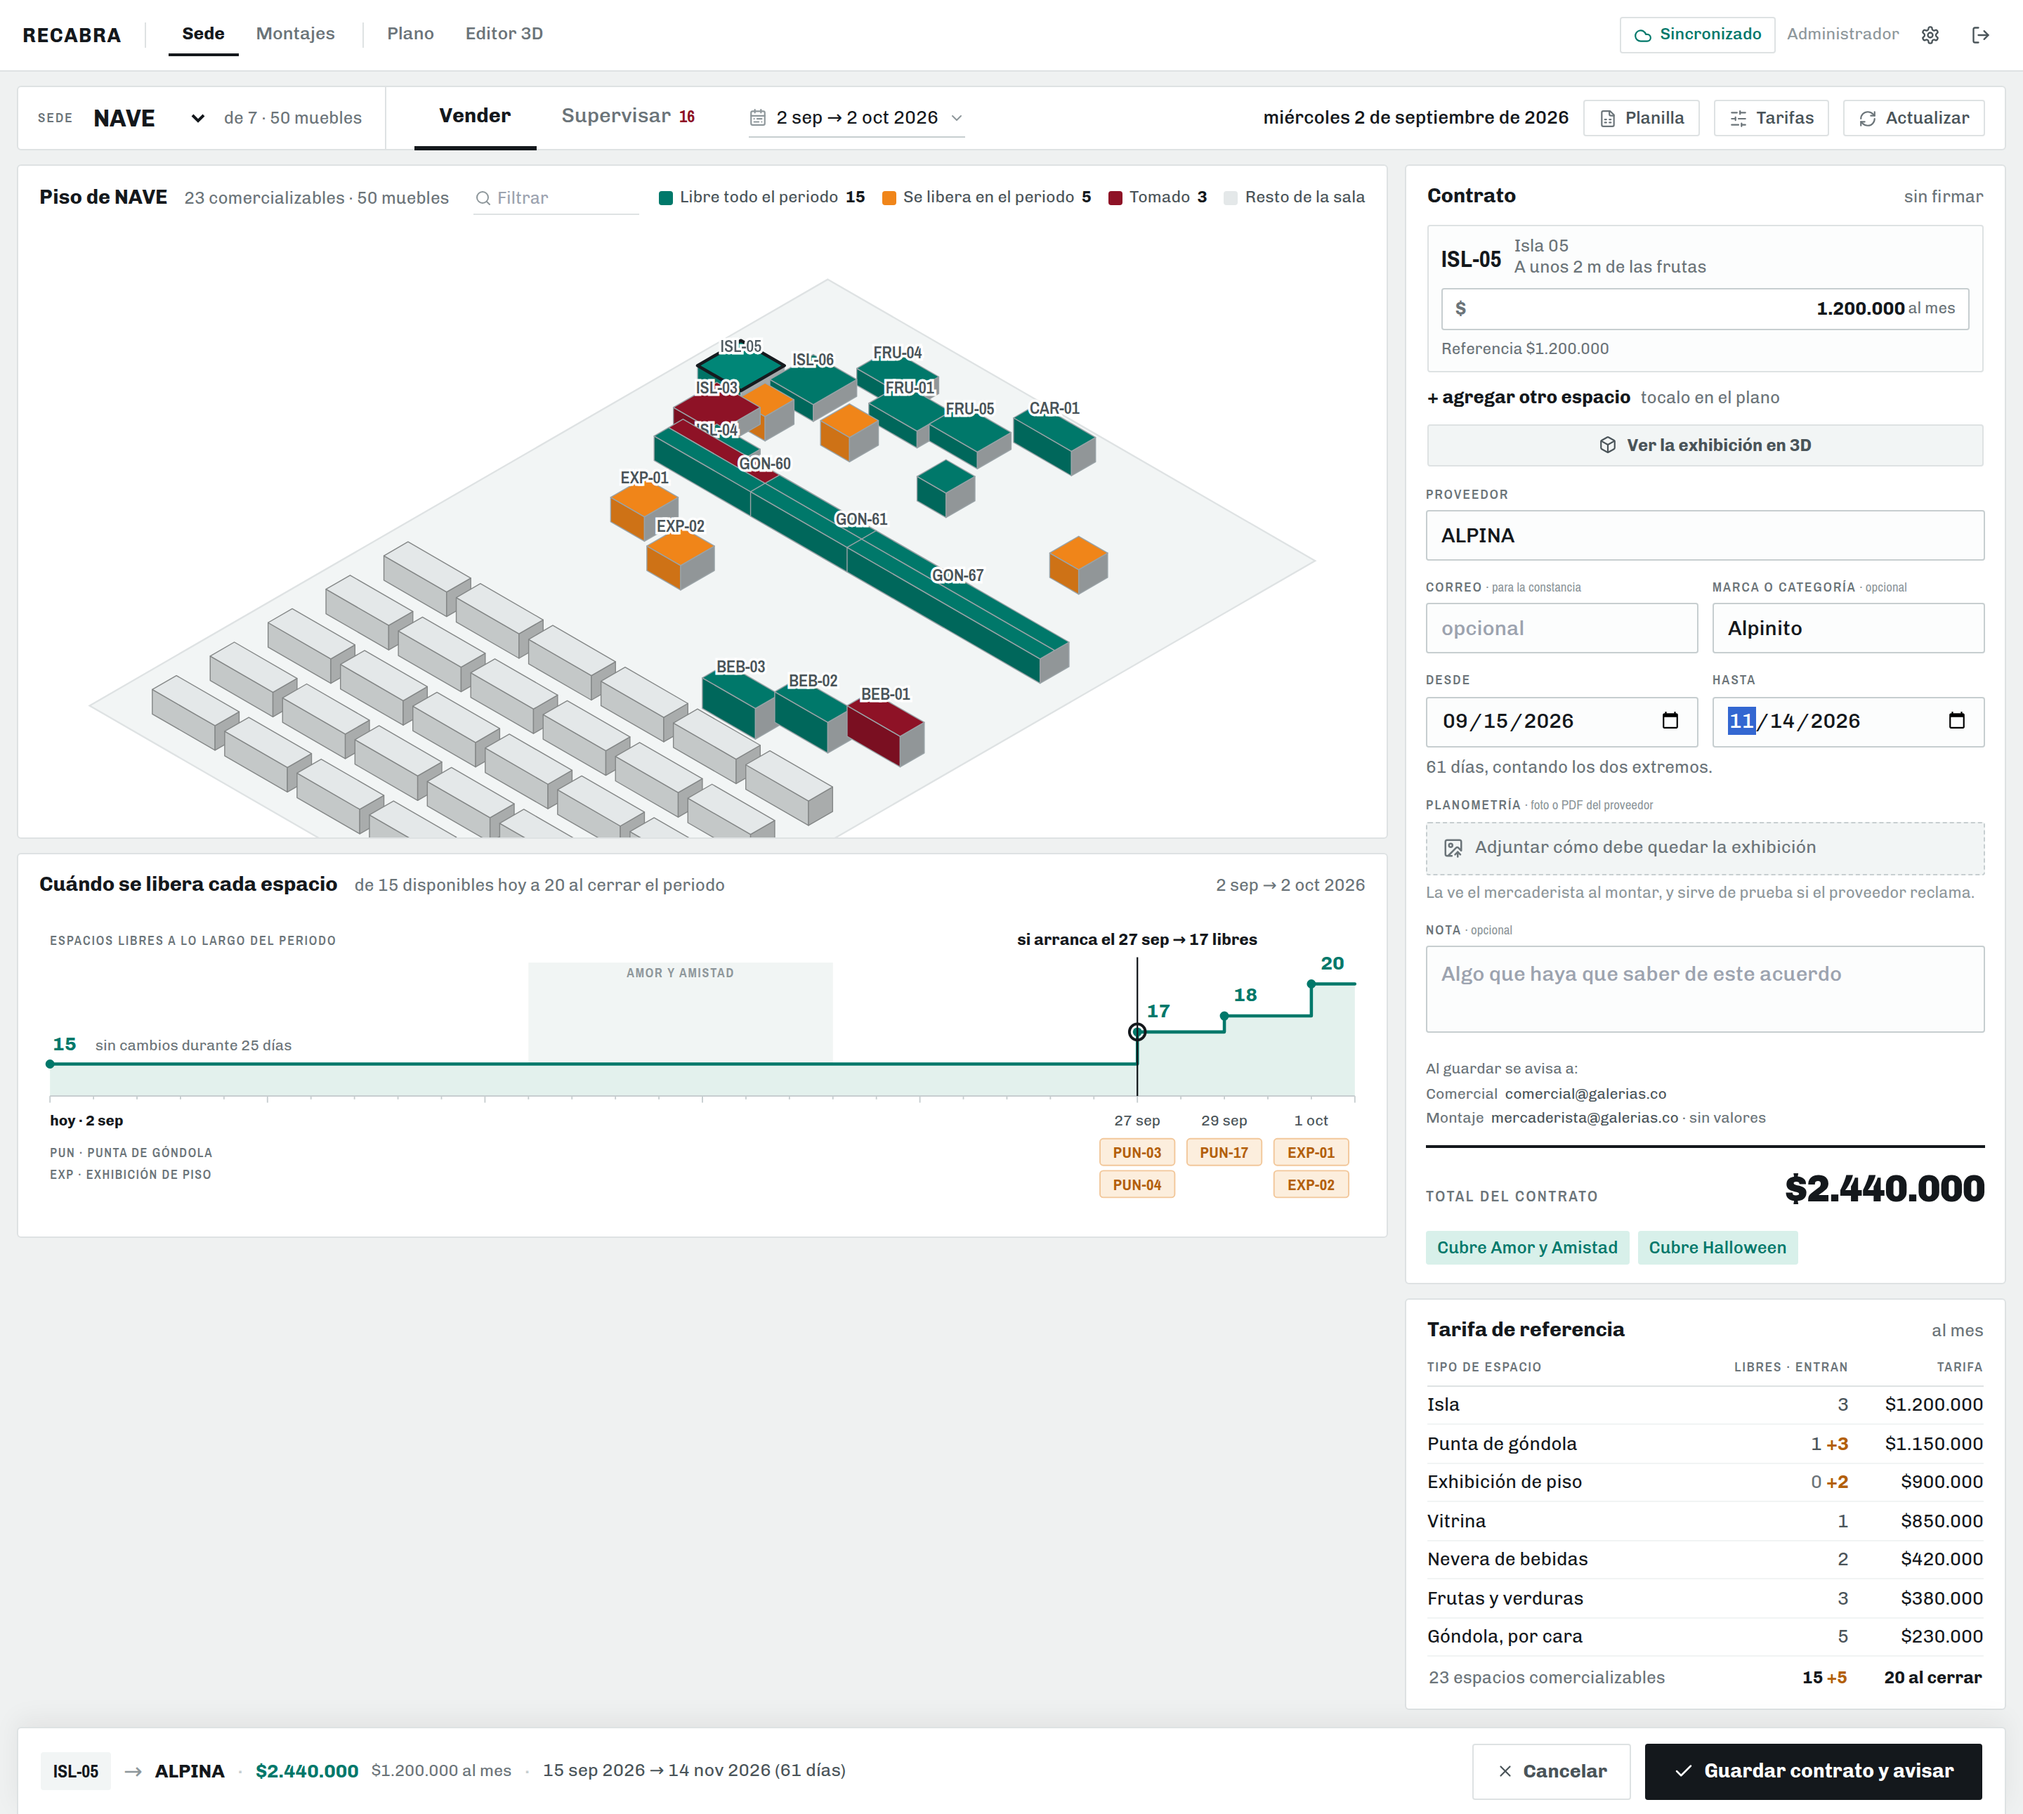
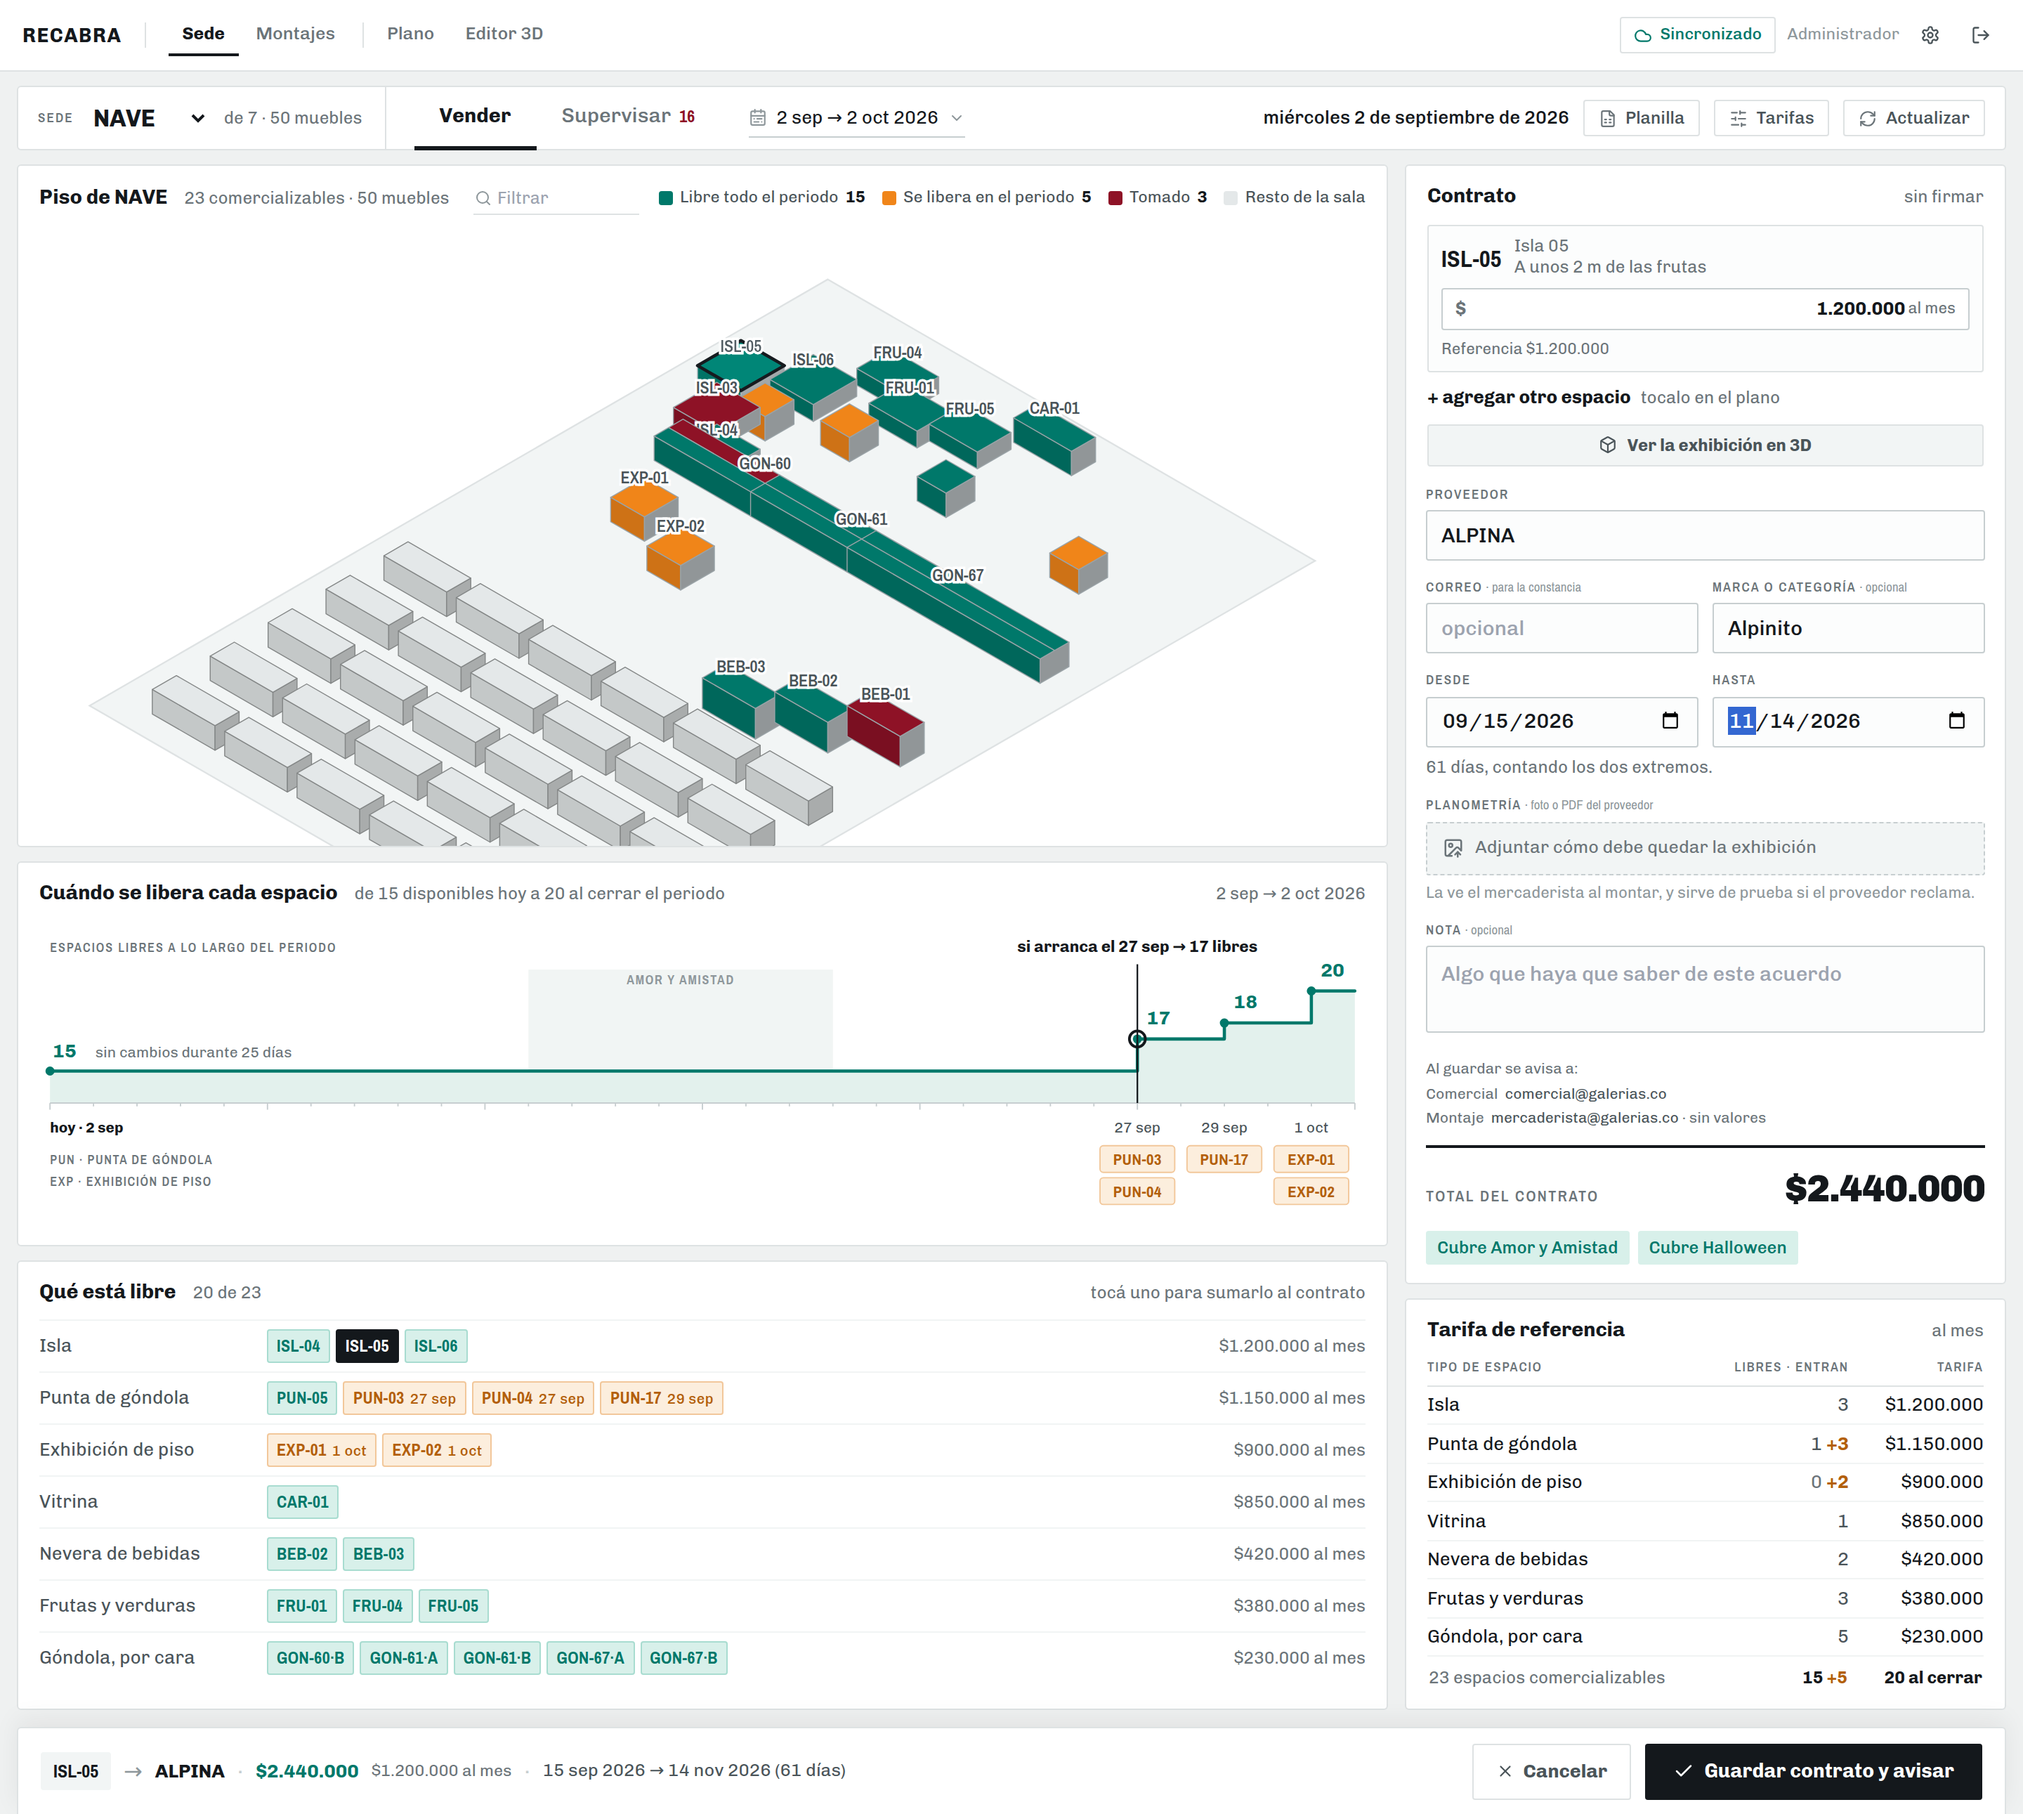
fix(vender): las dos columnas terminan a la misma altura
Con la ficha del contrato abierta la columna derecha medía medio metro más que
la izquierda, y ese desnivel dejaba la esquina de abajo a la izquierda en gris.

Los códigos de lo que está libre se mudan de columna: con contrato abierto
salen de la lista de precios y entran como panel propio —«Qué está libre»— al
pie de la izquierda. Van donde falta alto, que es también donde sirven: se
sigue eligiendo espacios con el contrato a medio llenar, y ahí el panel es más
útil que en la columna angosta, porque a todo el ancho las pastillas entran en
una fila por tipo y se leen de un golpe. La que ya está en el contrato se ve
en negro, así que la lista dice también qué llevás elegido.

Y la regla que faltaba: lo que absorbe la diferencia de alto es SIEMPRE el
último panel de la columna corta —la lista de precios a la derecha, la de
espacios libres a la izquierda—. Nunca la tarjeta del plano ni la escalera: se
miden con su dibujo, y estirarlas les mete blanco adentro, que fue el error de
la vuelta anterior. Por eso la fila vuelve a `stretch` y el `flex` va sólo en
el último panel de cada columna.

Verificado: tsc limpio, las seis suites en verde y los seis modos del harness
sin desbordes ni errores.

Claude-Session: https://claude.ai/code/session_01Bfyv1AAB8eaVhxRvVZnb3z

diff --git a/frontend/src/pages/DashboardView.tsx b/frontend/src/pages/DashboardView.tsx
@@ -2911,6 +2911,19 @@ export default function DashboardView() {
    *  «¿qué le ofrezco?». Tenerlo detrás de un botón obligaba a abrir, mirar,
    *  cerrar y volver a mirar el plano — cuatro gestos para un dato que se usa
    *  en cada llamada. */
+  /** Las pastillas de un tipo: primero lo libre todo el periodo, después lo
+   *  que se libera adentro, con su fecha. */
+  const chipsDe = (g: { libres: Disponible[]; parciales: Disponible[] }) =>
+    [...g.libres, ...g.parciales].map((d) => (
+      <ChipEspacio
+        key={`${d.fixture.id}-${d.face}`}
+        code={d.code}
+        desde={d.desde}
+        onClick={() => alternarCara(d.fixture.id, d.face)}
+        puesto={enContrato.some((x) => x.id === d.fixture.id && x.face === d.face)}
+      />
+    ));
+
   /** Los códigos sólo mientras no hay contrato armado: ahí la hoja de la
    *  derecha está vacía y la pregunta es cuáles hay. Con la ficha abierta la
    *  pregunta ya es otra y los códigos la empujarían fuera de la pantalla. */
@@ -3012,23 +3025,7 @@ export default function DashboardView() {
                     padding: "0 0 7px", borderBottom: "1px solid var(--line-soft)",
                   }}>
                     <div style={{ display: "flex", flexWrap: "wrap", gap: 4 }}>
-                      {libres.map((d) => (
-                        <ChipEspacio
-                          key={`${d.fixture.id}-${d.face}`}
-                          code={d.code}
-                          onClick={() => alternarCara(d.fixture.id, d.face)}
-                          puesto={enContrato.some((x) => x.id === d.fixture.id && x.face === d.face)}
-                        />
-                      ))}
-                      {parciales.map((d) => (
-                        <ChipEspacio
-                          key={`${d.fixture.id}-${d.face}`}
-                          code={d.code}
-                          desde={d.desde}
-                          onClick={() => alternarCara(d.fixture.id, d.face)}
-                          puesto={enContrato.some((x) => x.id === d.fixture.id && x.face === d.face)}
-                        />
-                      ))}
+                      {chipsDe({ libres, parciales })}
                     </div>
                   </td>
                 </tr>
@@ -3054,6 +3051,51 @@ export default function DashboardView() {
             </tr>
           </tfoot>
         </table>
+      </div>
+    </Card>
+  );
+
+  /** «Qué está libre», como panel propio.
+   *
+   *  Es el mismo contenido que cuelga de la lista de precios, mudado de
+   *  columna: con la ficha del contrato abierta la columna derecha mide medio
+   *  metro más que la izquierda, y ese desnivel dejaba la esquina de abajo a la
+   *  izquierda en gris. Los códigos van donde falta alto, que es también donde
+   *  sirven — se sigue eligiendo espacios con el contrato a medio llenar.
+   *
+   *  A todo el ancho de la columna las pastillas entran en una o dos filas por
+   *  tipo, así que ocupa menos que en la columna angosta y se lee de un golpe. */
+  const panelCodigos = (
+    <Card style={{ flex: "1 1 auto", minHeight: 0 }}>
+      <CardHeader
+        title="Qué está libre"
+        sub={`${rangeTally.libres + rangeTally.parciales} de ${kpis.total}`}
+        right={<span>tocá uno para sumarlo al contrato</span>}
+      />
+      <div style={{ padding: "0 15px 12px", overflowY: "auto" }}>
+        {porCategoria
+          .filter((g) => g.libres.length + g.parciales.length > 0)
+          .map((g) => (
+            <div
+              key={g.cat}
+              style={{
+                display: "flex", alignItems: "baseline", gap: 12,
+                padding: "6px 0", borderTop: "1px solid var(--line-soft)",
+              }}
+            >
+              <span style={{ fontSize: 13, color: "var(--ink-2)", width: 150, flexShrink: 0 }}>
+                {rateTypeLabel(g.cat)}
+              </span>
+              <div style={{ display: "flex", flexWrap: "wrap", gap: 4, flex: 1, minWidth: 0 }}>
+                {chipsDe(g)}
+              </div>
+              <span style={{
+                fontSize: 12, color: "var(--ink-3)", flexShrink: 0, whiteSpace: "nowrap",
+              }}>
+                {g.tarifa ? `${formatCOP(g.tarifa)} al mes` : "sin tarifa"}
+              </span>
+            </div>
+          ))}
       </div>
     </Card>
   );
@@ -3295,7 +3337,7 @@ export default function DashboardView() {
                 No se dibuja si el periodo no tiene un solo cambio: una
                 escalera sin escalón es una línea recta con un título. */}
             {mapRange && (
-              <Card style={{ height: 274, flexShrink: 0 }}>
+              <Card style={{ height: 274, flex: "0 0 auto" }}>
                 <CardHeader
                   title="Cuándo se libera cada espacio"
                   sub={rangeTally.parciales > 0
@@ -3315,6 +3357,14 @@ export default function DashboardView() {
                 </div>
               </Card>
             )}
+
+            {/* Con la ficha abierta la columna derecha mide medio metro más
+                que ésta, y ese desnivel dejaba la esquina de abajo en gris. Los
+                códigos se mudan acá: donde falta alto, que es también donde
+                sirven —se sigue eligiendo espacios con el contrato a medio
+                llenar—. Es el último panel de la columna, así que es el que
+                absorbe la diferencia y deja las dos parejas abajo. */}
+            {!conCodigos && porCategoria.length > 0 && panelCodigos}
           </div>
         </ModoVender>
       ) : (

diff --git a/frontend/src/components/Contrato/ModoVender.tsx b/frontend/src/components/Contrato/ModoVender.tsx
@@ -58,12 +58,13 @@ function Armazon({
 }) {
   return (
     <div style={{ display: "flex", flexDirection: "column", gap: 12 }}>
-      {/* `flex-start` y no `stretch`: la tarjeta del plano se mide con la
-          proporción del plano, y estirarla para igualar la altura de la ficha
-          le agregaba trescientos píxeles de blanco abajo del dibujo. Cada
-          columna mide lo que mide; la que se estira es la de la derecha, y
-          sólo cuando no hay ficha. */}
-      <div style={{ display: "flex", gap: 12, alignItems: "flex-start" }}>
+      {/* Las dos columnas terminan a la misma altura, y lo que absorbe la
+          diferencia es SIEMPRE el último panel de la columna corta: la lista
+          de precios a la derecha, la de espacios libres a la izquierda. Nunca
+          la tarjeta del plano ni la escalera, que se miden con su dibujo —
+          estirarlas les agrega blanco adentro, que fue el error anterior.
+          Por eso `stretch` acá y `flex` sólo en el último de cada columna. */}
+      <div style={{ display: "flex", gap: 12, alignItems: "stretch" }}>
         {mapa}
         {/* Mientras no hay un espacio elegido, acá había 428 px de blanco con
             un rótulo chiquito arriba explicando que ahí iba a aparecer algo.

diff --git a/docs/ESTADO.md b/docs/ESTADO.md
@@ -446,8 +446,17 @@ el otro camino: el plano contesta «dónde queda» y la lista contesta «cuáles
 según cuál de las dos preguntas traiga el proveedor uno arranca por un lado o por el
 otro. Las que se liberan adentro del periodo van en naranja y con su fecha: es
 inventario vendible —«te lo puedo dar desde el 25»— y esconderlo es dejar de ofrecer
-cinco espacios de veinte. Los códigos salen cuando hay un contrato armado: ahí la
-pregunta ya es otra y empujarían la ficha fuera de la pantalla.
+cinco espacios de veinte. Con la ficha del contrato abierta los códigos se MUDAN de columna: la derecha
+mide medio metro más que la izquierda y ese desnivel dejaba la esquina de abajo en gris,
+así que van a la izquierda, debajo de la escalera, como panel propio —«Qué está libre»—.
+Donde falta alto, que es también donde sirven: se sigue eligiendo espacios con el
+contrato a medio llenar. A todo el ancho de esa columna las pastillas entran en una fila
+por tipo y se leen de un golpe.
+
+**Las dos columnas terminan a la misma altura**, y lo que absorbe la diferencia es
+siempre el ÚLTIMO panel de la columna corta —la lista de precios a la derecha, la de
+espacios libres a la izquierda—. Nunca la tarjeta del plano ni la escalera: ésas se
+miden con su dibujo, y estirarlas les agrega blanco adentro.
 
 **Cómo se mira sin backend.** `docs/maquetas/generadores/pantalla.mjs` sirve
 `frontend/dist` y contesta `/api/*` con una sede sintética que lleva los ocho contratos
